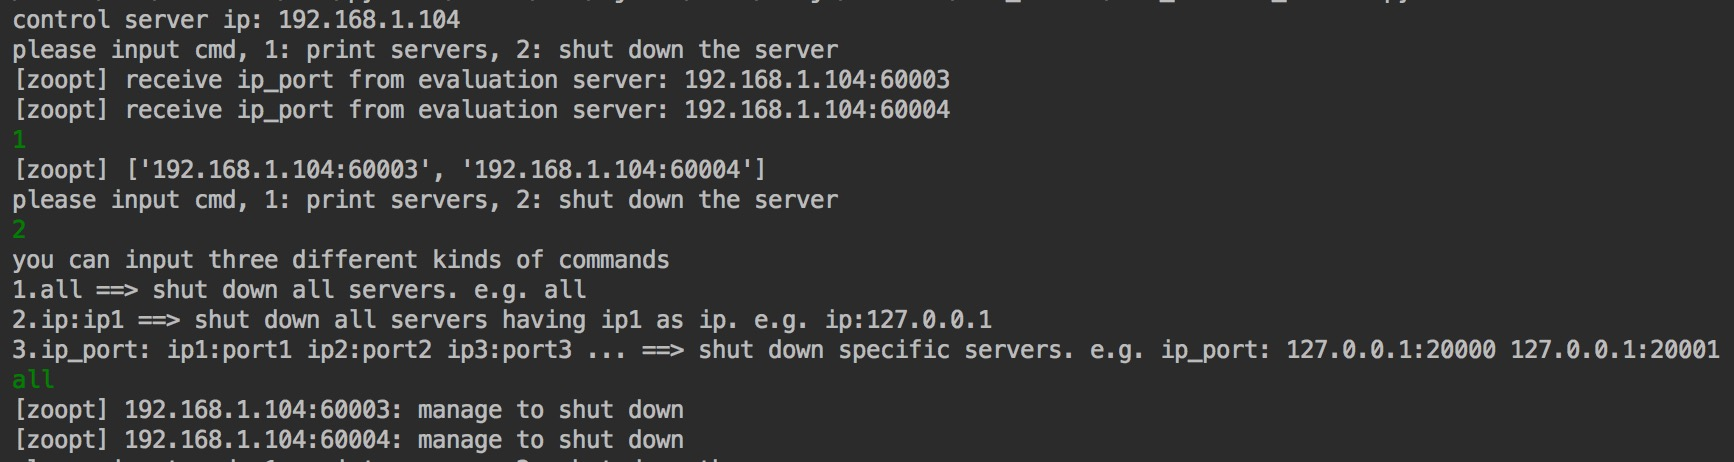
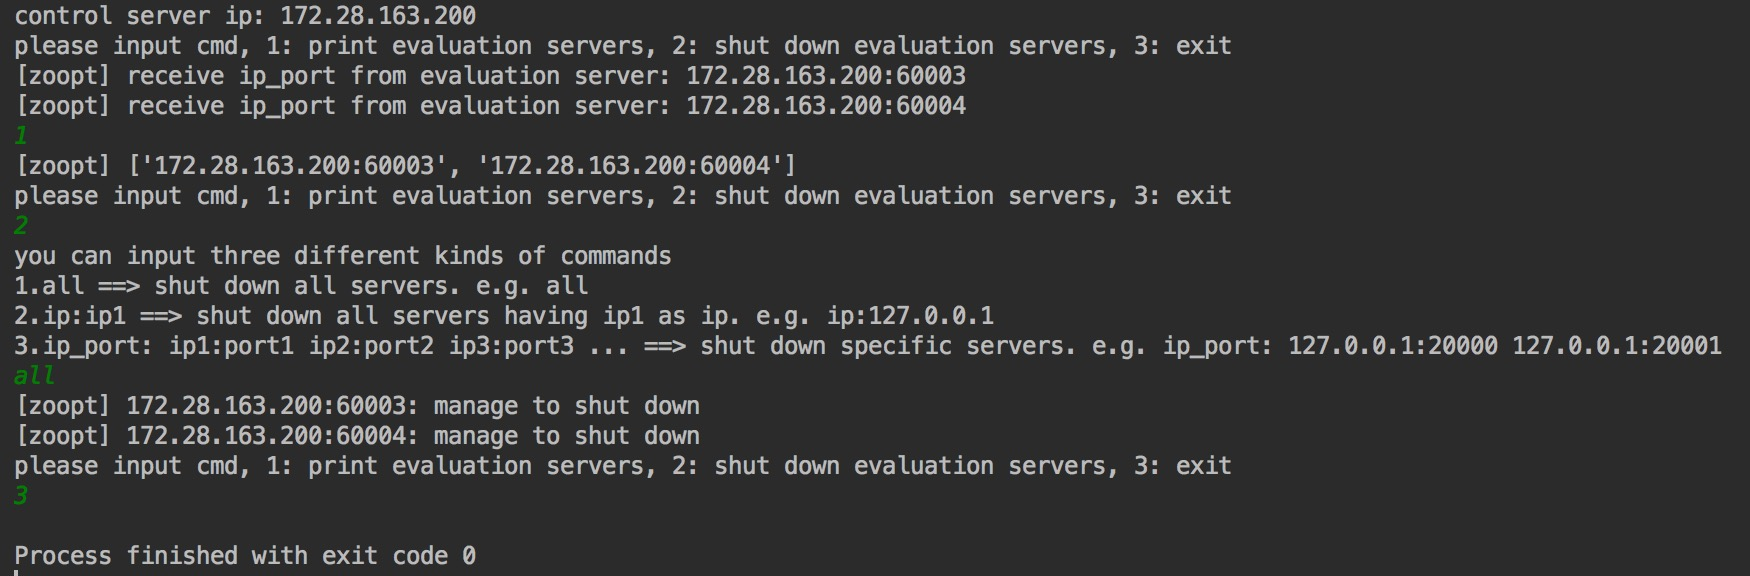
update

Changed region(s): [[0.0, 0.0, 0.9965, 1.0]]

diff --git a/servers/server_api/control_server.py b/servers/server_api/control_server.py
@@ -142,12 +142,14 @@ class ControlServer:
             t.start()
         # start main thread
         while True:
-            cmd = int(raw_input("please input cmd, 1: print servers, 2: shut down the server\n"))
+            cmd = int(raw_input("please input cmd, 1: print evaluation servers, 2: shut down evaluation servers, 3: exit\n"))
             with lock:
                 if cmd == 1:
                     ToolFunction.log(str(self.evaluation_server))
                 elif cmd == 2:
                     self.shut_down_control()
+                elif cmd == 3:
+                    return
 
     def shut_down_control(self):
         """
